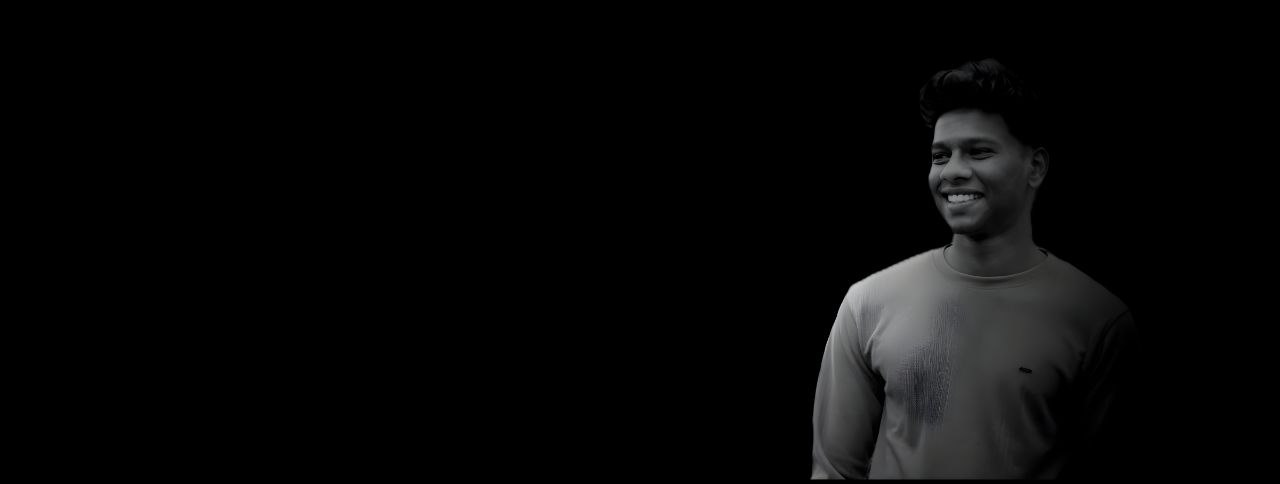
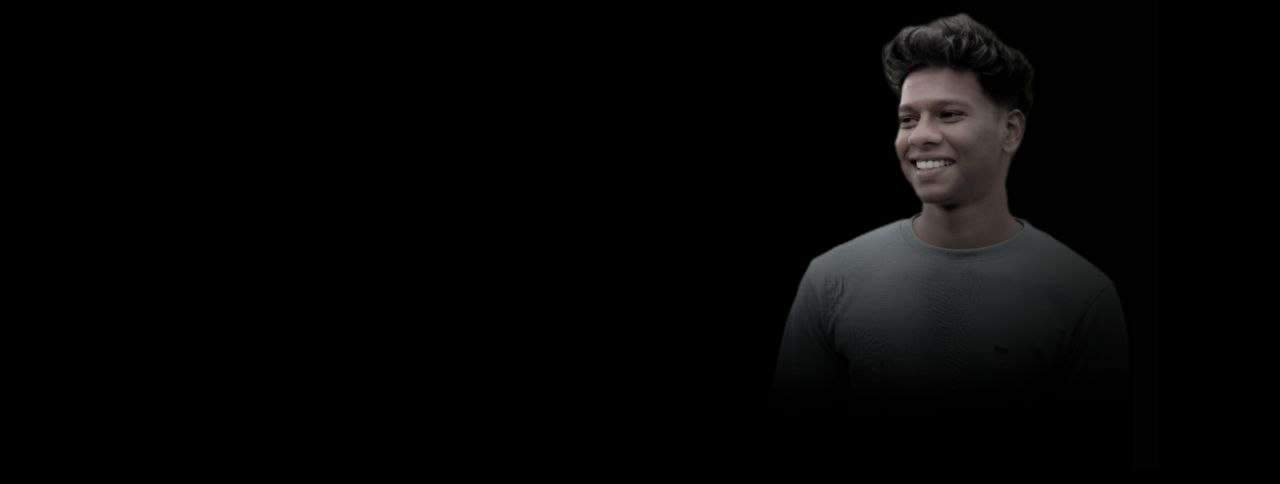
Prof update

Changed region(s): [[0.5938, 0.031, 0.875, 0.9917]]

diff --git a/src/profile/Skills/Skills.jsx b/src/profile/Skills/Skills.jsx
@@ -28,11 +28,11 @@ const skills = [
           image:
[1 lines of base64/hex data omitted]
         },
-        {
+       /* {
           name: "Next Js",
           image:
[1 lines of base64/hex data omitted]
-        },
+        },*/
     ],
 },
 {
@@ -56,11 +56,11 @@ const skills = [
           name: "Node Js",
           image: "https://nodejs.org/static/images/logo.svg",
         },
-        {
+        /*{
           name: "Express Js",
           image:
             "https://www.pngfind.com/pngs/m/136-1363736_express-js-icon-png-transparent-png.png",
-        },
+        },*/
         {
             name : "MongoDB",
[1 lines of base64/hex data omitted]

diff --git a/src/profile/About/About.jsx b/src/profile/About/About.jsx
@@ -29,7 +29,7 @@ const About = () => {
           responsive and user-friendly websites and web applications.
         </p>
         <p>
-          My journey in web development began during the time of pandemic(around like 2021), and since then, I've been on a constant
+          My journey in web development began during the time of pandemic, and since then I've been on a constant
           learning curve, keeping up with the latest technologies and best practices in the field.
         </p>
         <p>

diff --git a/src/profile/Header/Header.css b/src/profile/Header/Header.css
@@ -39,15 +39,15 @@ header.sticky{
 .name{
     color:gold ;
 }
+/*
 .home{
     display: flex;
     align-items: center;
     padding:0 9%;
-    background: url('../../../public/cover.jpeg ') no-repeat;
+    background: url('../../../public/prof.jpg ') no-repeat;
     background-position: 70% 60% ;
-    background-size: 1300px;      
-    
-}
+    background-size: 600px;      
+}*/
 .home-content{
     margin-top: 10rem;
     max-width: 80rem;
